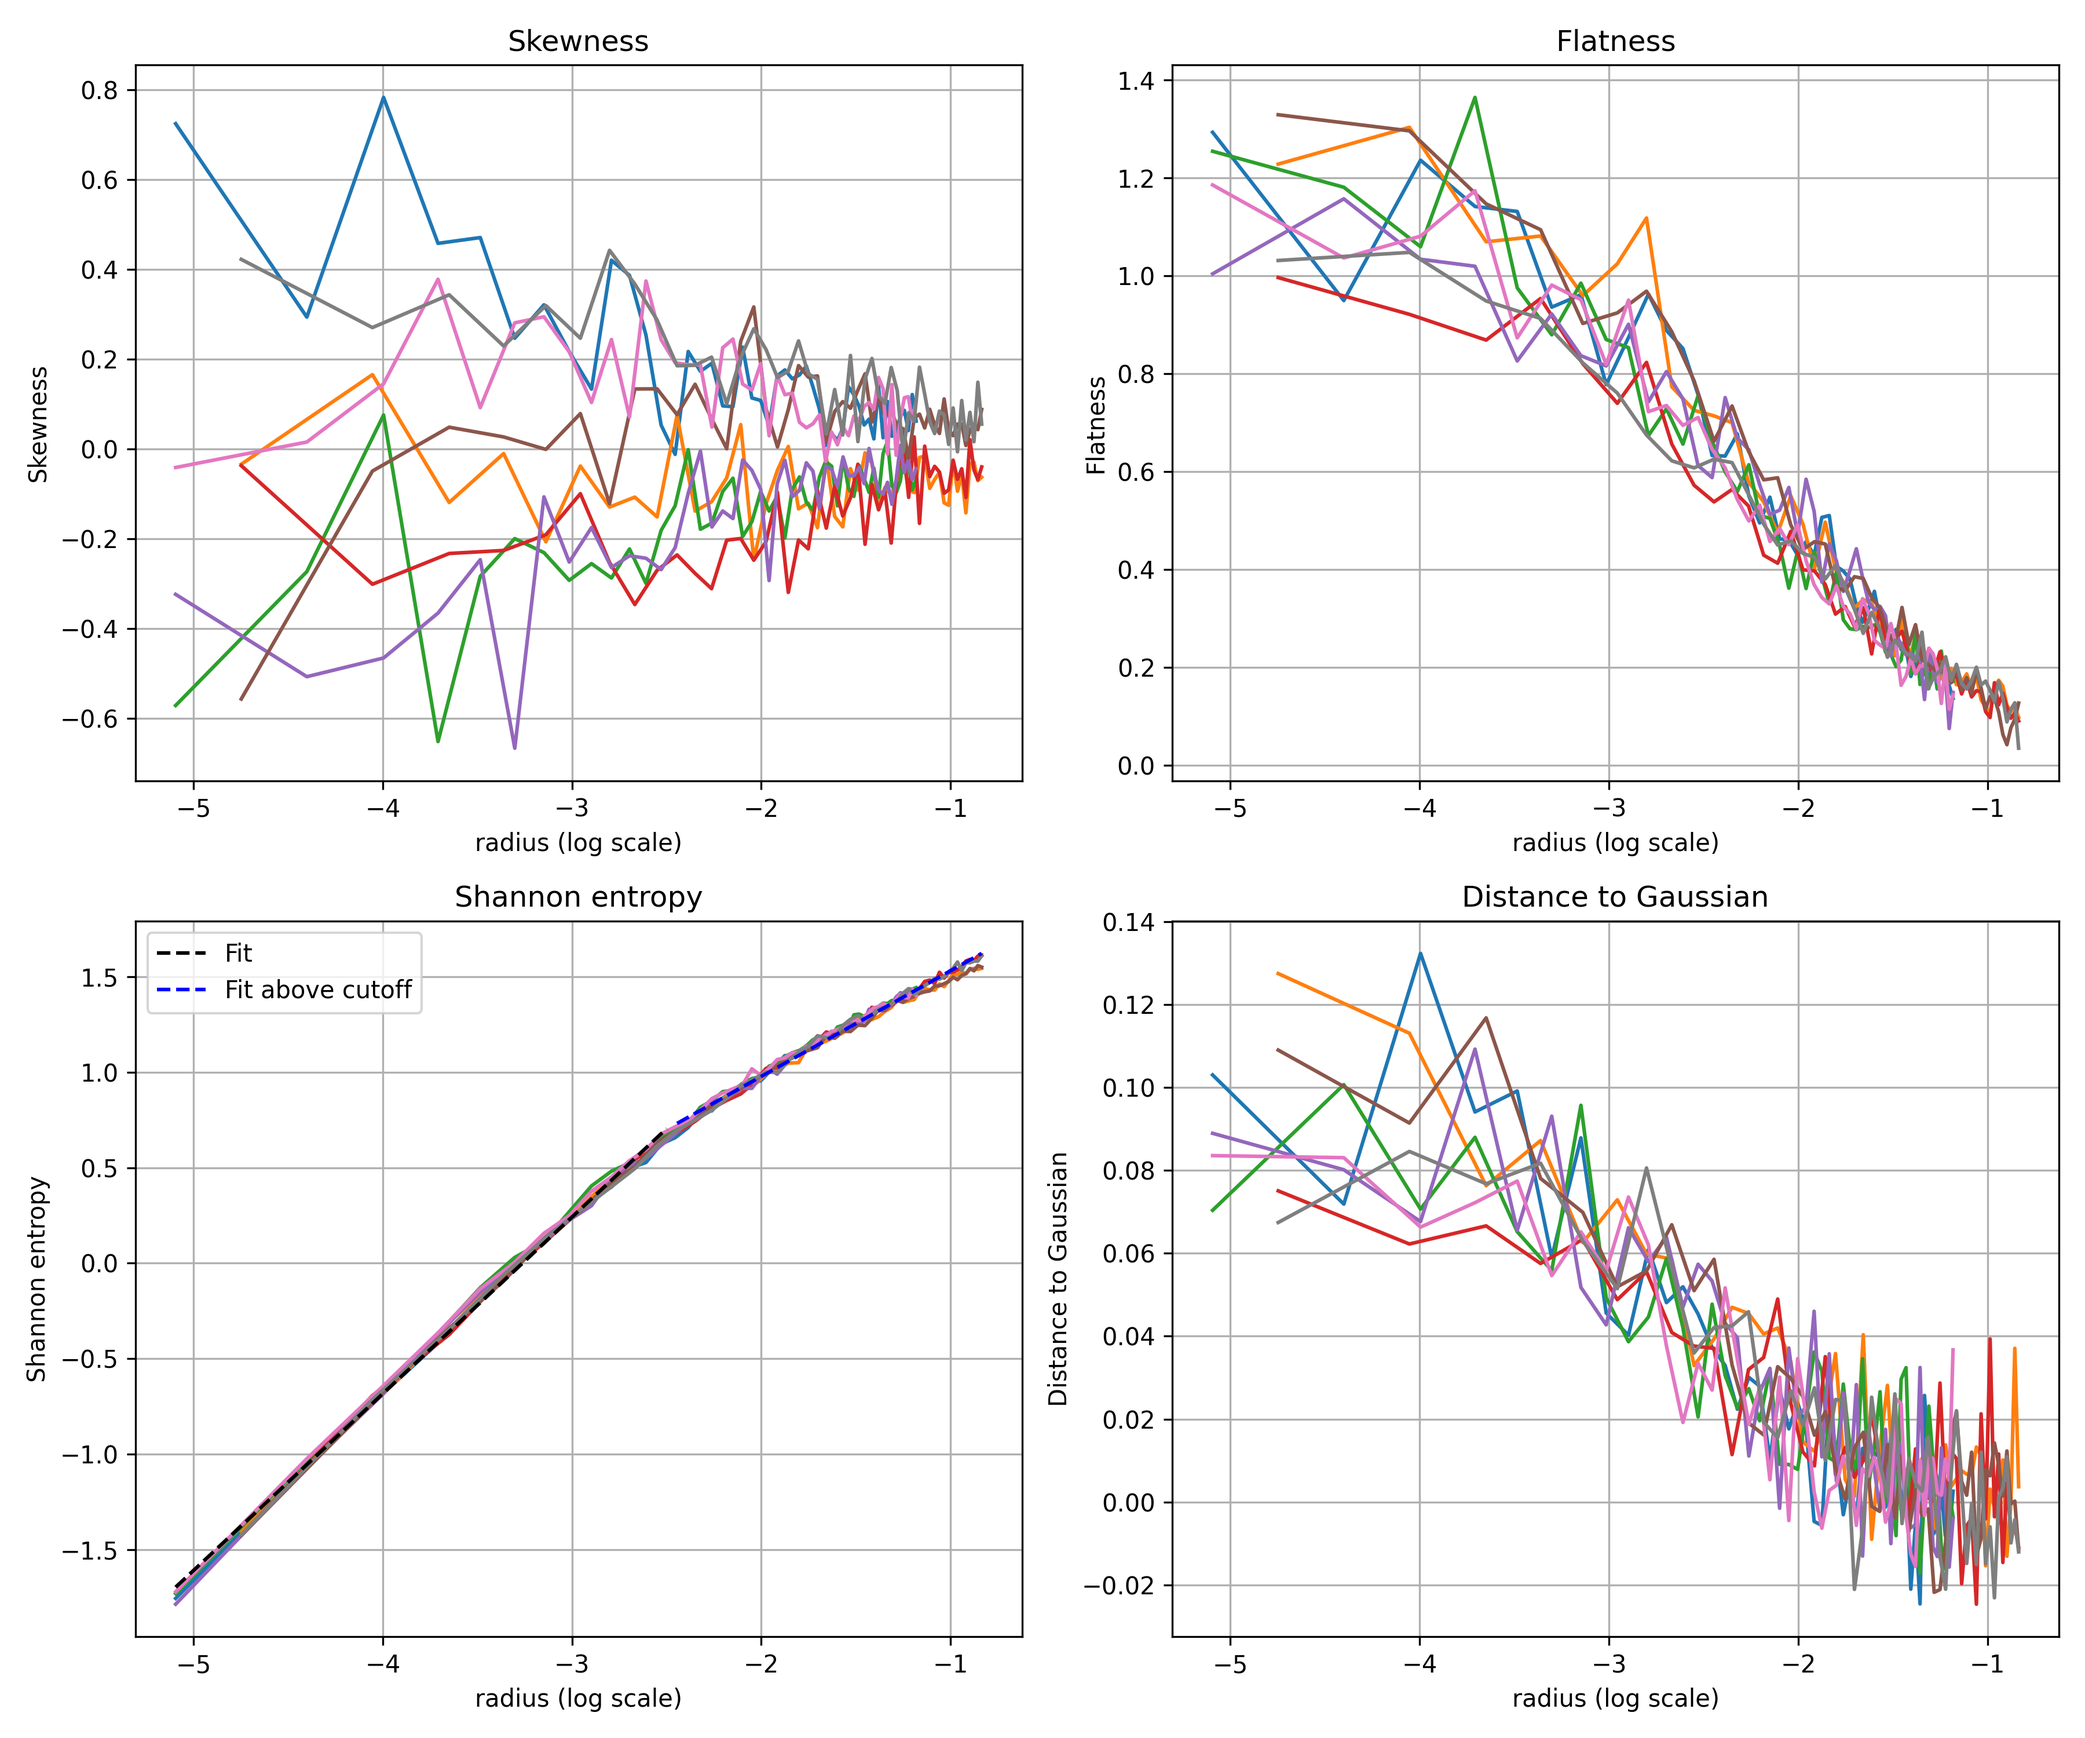
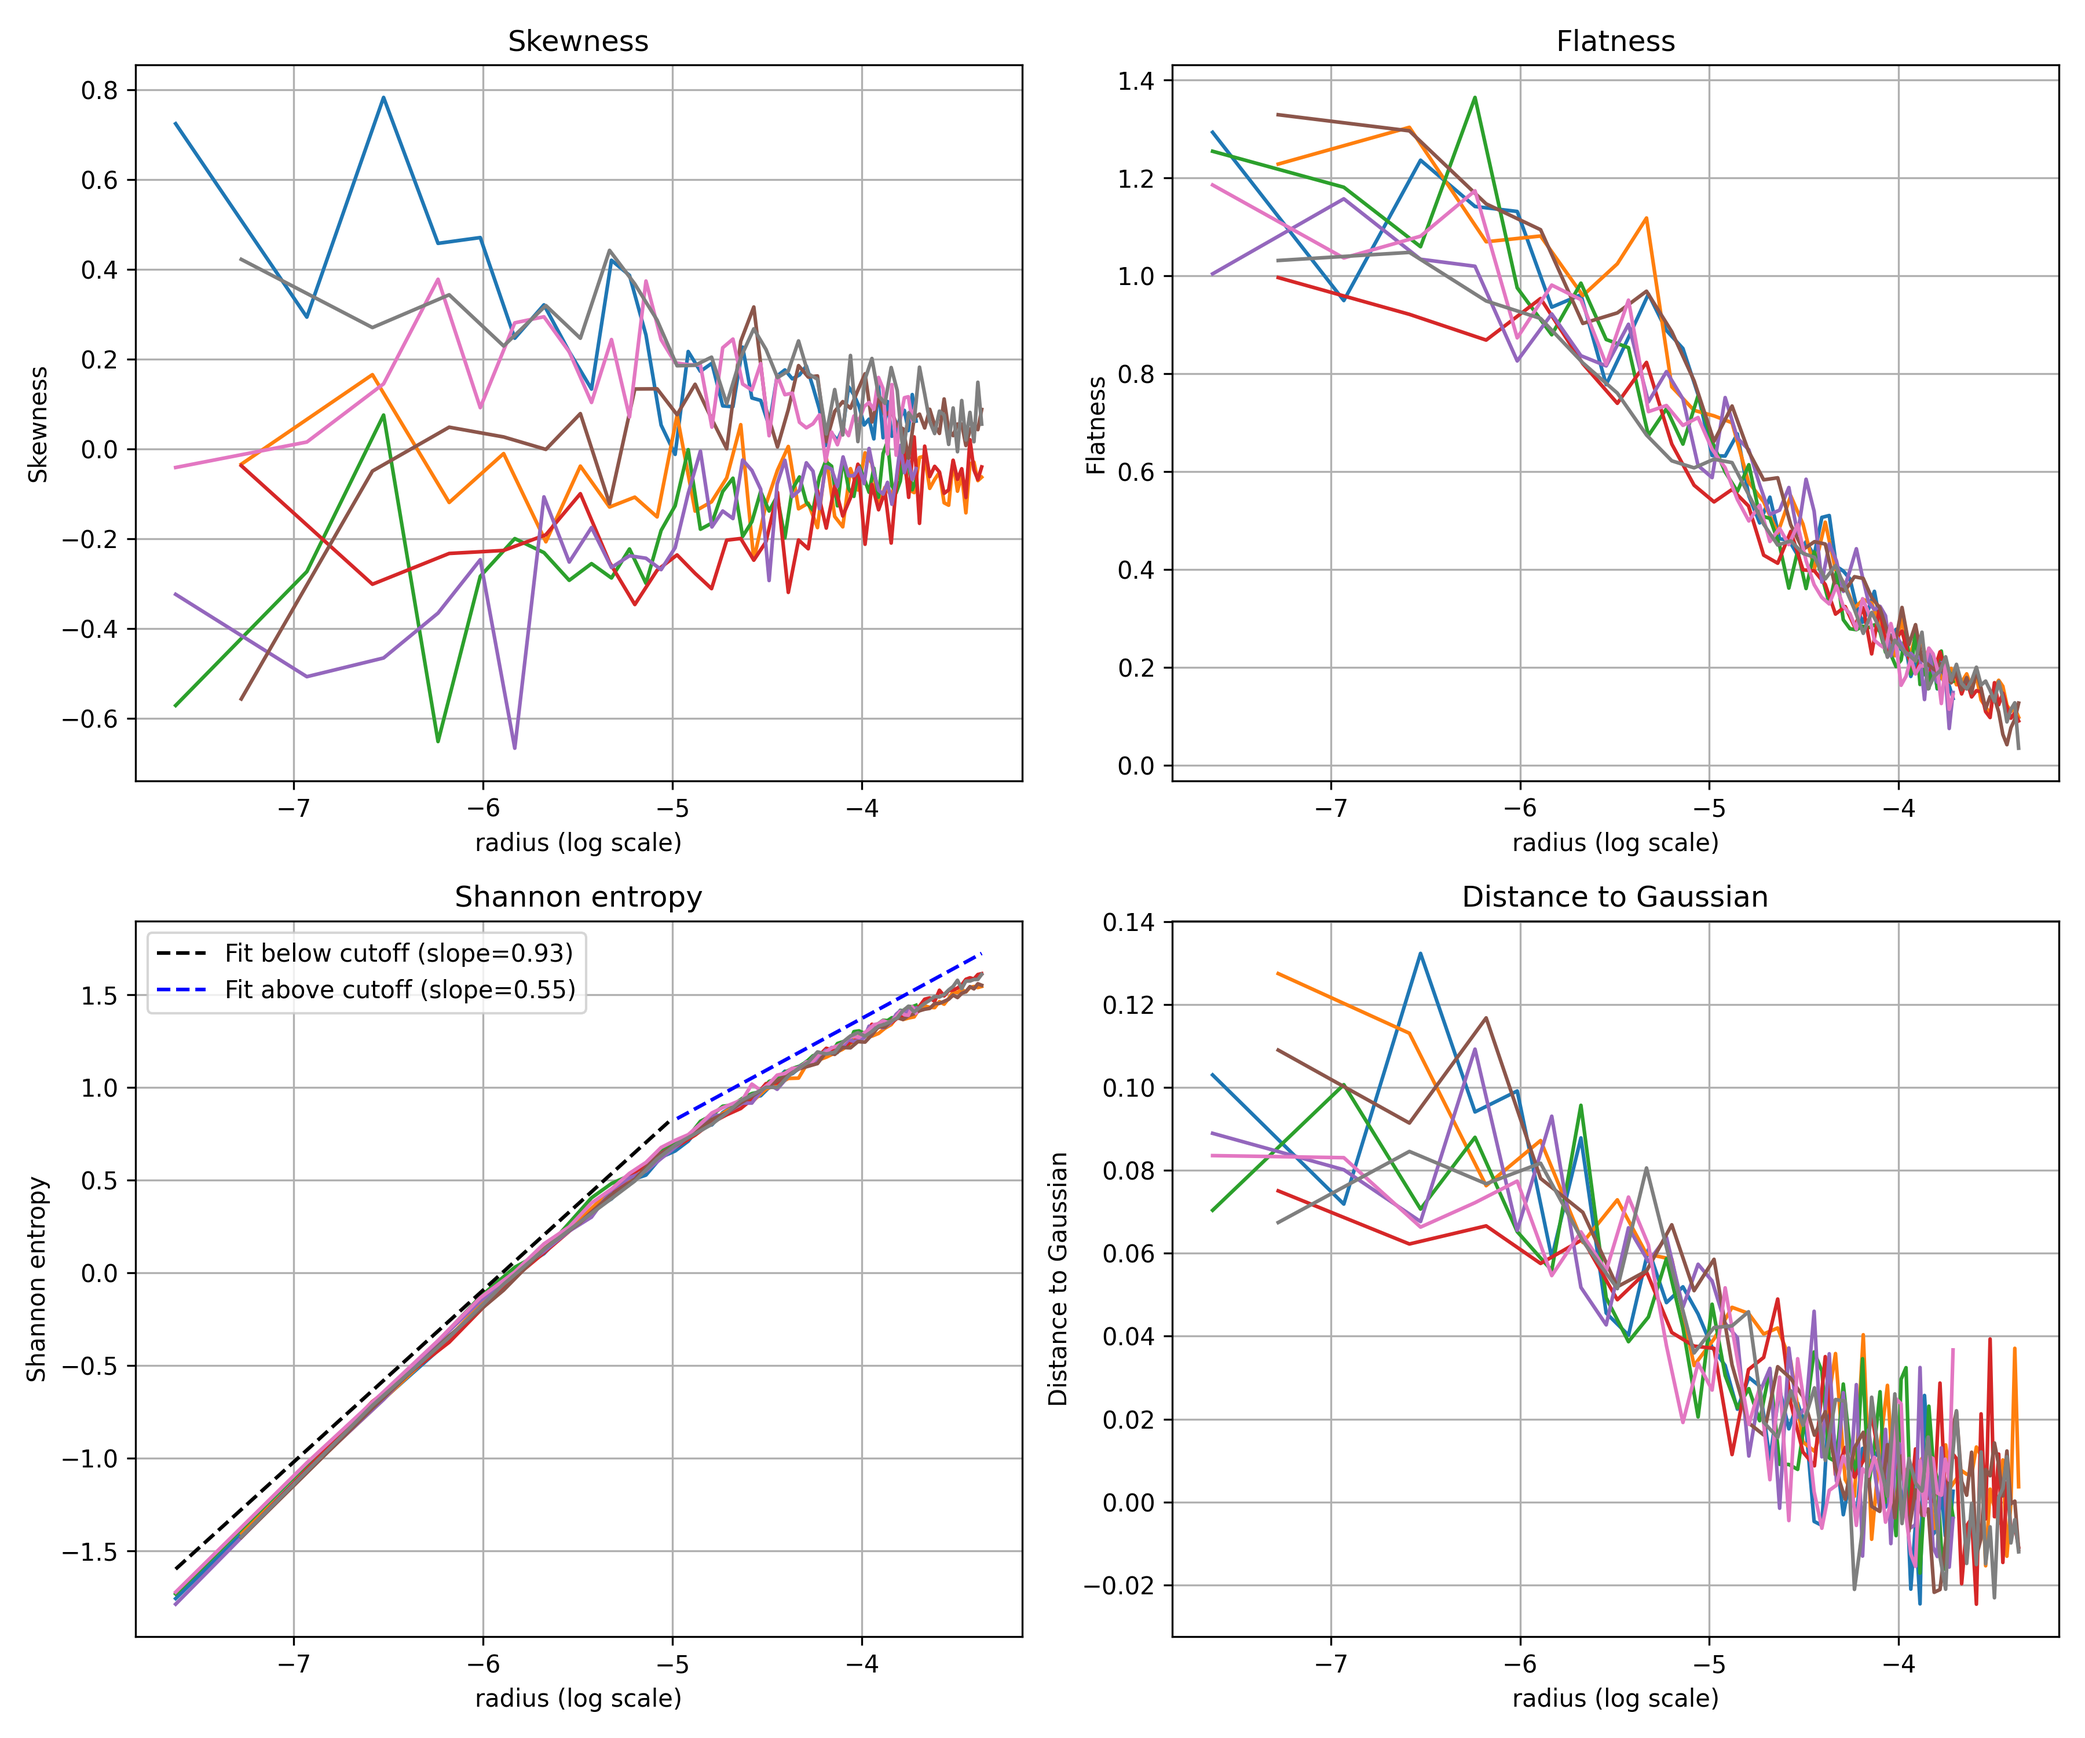
Added different cutoff radius for multiple regressions

diff --git a/Plotting.py b/Plotting.py
@@ -1,11 +1,4 @@
-"""
-This python ...
-
-authors: C. Granero-Belinchon (IMT- Atlantique).
-
-date: 09/2021
-"""
-#%% Import Libraries
+# %%
 
 import numpy as np
 import sys
@@ -23,11 +16,15 @@ from skimage.draw import line
 import matplotlib.pyplot as plt
 
 import infomeasure as im # to compute information measures
-
-#%%
 from dirs import dir, save_dir
 
-sim_n = '03'
+# Parameters definition
+Nanalyse=2**10 # number of increments to analyse (512 / 1024 is a good compromise between statistical convergence and computation time)
+scaleth= 50 # maximum scale to analyse
+Nreal = 5 # number of realizations to average the information measures over
+n_angles = 8
+
+sim_n = '04'
 path= dir + 'sim_' + sim_n + '/' + 'vars.nc'
 save_dir = save_dir + 'sim_' + sim_n + '/'
 # Ensure output directory exists to avoid "No such file or directory" when saving
@@ -59,11 +56,6 @@ WW=(WW)/sigma
 
 N=len(WW)
 
-# Parameters definition
-Nanalyse=2**10 # number of increments to analyse (512 / 1024 is a good compromise between statistical convergence and computation time)
-scaleth= 50 # maximum scale to analyse
-Nreal = 5 # number of realizations to average the information measures over
-
 scale_dir = f'scales_1-{scaleth}/'
 # Ensure scale-specific output directory exists
 if not os.path.exists(save_dir + scale_dir):
@@ -87,65 +79,6 @@ entropy = np.zeros((len(scales), len(scales), Nreal))
 # Distance to Gaussian distribution (Kullback-Leiber divergence)
 dist_gauss = np.zeros((len(scales), len(scales), Nreal))
 
-
-#%%
-
-# Estimation of all information measures
-for isx in range(len(scales)): #x dimension
-    for isy in range(len(scales)): # y dimension
-
-        scalex=scales[isx]
-        scaley=scales[isy]
-        
-        if scalex!=0 or scaley !=0:
-            # Generation of increments
-            incrs = Incrs_anisotropic_generator2d(WW, scalex, scaley)
-
-            # flatten incrs to get a vector
-            incrs = incrs.flatten()
-
-            incrs = np.random.permutation(incrs)[0:int(len(incrs)/Nanalyse)*Nanalyse].reshape(-1,Nanalyse)
-
-            # create Gaussian realizations matching each increment-realization's mean and std
-            means = np.mean(incrs, axis=1)
-            stds = np.std(incrs, axis=1, ddof=0)
-            stds[stds == 0] = 1e-12
-            gauss = np.random.normal(loc=means[:, None], scale=stds[:, None], size=incrs.shape)
-
-            for ir in range(Nreal):
-                S2[isx,isy,ir] = np.mean(incrs[ir]**2)
-                skewness[isx,isy,ir] = skew(incrs[ir], bias=True)
-                flatness[isx,isy,ir] = kurtosis(incrs[ir], bias=True)
-                entropy[isx,isy,ir] = im.entropy(incrs[ir], approach="kl", k = 5)
-                dist_gauss[isx,isy,ir] = im.kullback_leiber_divergence(incrs[ir], gauss[ir], approach="kl", k = 5)
-    print(isx,"/",len(scales)-1, 'done')
-
-# Averaging over realizations
-S2 = np.mean(S2, axis=2)
-skewness = np.mean(skewness, axis=2)
-flatness = np.mean(flatness, axis=2)
-entropy = np.mean(entropy, axis=2)
-dist_gauss = np.mean(dist_gauss, axis=2)
-
-
-# %%
-save_values = False
-
-# Saving the information measures
-if save_values:
-    np.savez(save_dir + scale_dir + f'Vorticity_Information_Measures_Nanalyse{Nanalyse}_scales1-{scaleth}.npz',
-            S2=S2,
-            skewness=skewness,
-            flatness=flatness,
-            entropy=entropy,
-            dist_gauss=dist_gauss,
-            scalesx=scales,
-            scalesy=scales,
-            )
-
-# %%
-
-# Loading the information measures from a file
 load_values = True
 scales = np.arange(-scaleth,scaleth+1,1)
 scale_dir = f'scales_1-{scaleth}/'
@@ -159,10 +92,6 @@ if load_values:
     dist_gauss = data['dist_gauss']
     scalesx = data['scalesx']
     scalesy = data['scalesy']
-
-# %%
-
-n_angles = 8
 
 meshgrid = np.meshgrid(scales,scales)
 
@@ -203,7 +132,6 @@ for k in range(n_angles):
 radius_angle = [np.log(elt) for elt in radius_angle]
 flatness_angle = [np.log((elt+3)/3) for elt in flatness_angle]
 
-# %%
 # Visualization of the information measures
 save_graphs = True
 
@@ -285,7 +213,8 @@ for i, ax in enumerate(axes):
     entropy_slopes = np.zeros(n_angles)
     c_intercept = np.zeros(n_angles)
 
-    cutoff_radius = -2.5
+    cutoff_radius = -5
+    cutoff_radius_2 = -3
 
     for k in range(n_angles):
         r = radius_angle[k]
@@ -311,19 +240,19 @@ for i, ax in enumerate(axes):
         r_fit = np.linspace(min(radius_angle[0]), cutoff_radius, 100)
         
         m_slope_m = np.mean(entropy_slopes) if i == 2 else 0
-        c_intercept_m = np.mean(c_intercept)
+        c_intercept_m = np.mean(c_intercept) + 0.1
 
-        ax.plot(r_fit, m_slope_m * r_fit + c_intercept_m, linestyle='--', color='black', label='Fit')
+        ax.plot(r_fit, m_slope_m * r_fit + c_intercept_m, linestyle='--', color='black', label=f'Fit below cutoff (slope={m_slope_m:.2f})')
         ax.legend()
 
         # Above cutoff radius, plot dashed line
-        if sim_n == '03':
+        if sim_n == '03' or sim_n == '04':
             for k in range(n_angles):
                 r = radius_angle[k]
                 d = data_lists[i][k]
 
                 # applying cutoff radius
-                mask = r >= cutoff_radius
+                mask = np.all([r > cutoff_radius, r < cutoff_radius_2], axis=0)
                 r_fit = r[mask]
                 d_fit = d[mask]
 
@@ -336,9 +265,9 @@ for i, ax in enumerate(axes):
             r_above = np.linspace(cutoff_radius, max(radius_angle[0]), 100)
 
             m_slope = np.mean(entropy_slopes) if i == 2 else 0
-            c_intercept = np.mean(c_intercept)
+            c_intercept = np.mean(c_intercept) + 0.1
 
-            ax.plot(r_fit, m_slope * r_fit + c_intercept, linestyle='--', color='blue', label='Fit above cutoff')
+            ax.plot(r_fit, m_slope * r_fit + c_intercept, linestyle='--', color='blue', label=f'Fit above cutoff (slope={m_slope:.2f})')
             ax.legend()
 
     
@@ -356,5 +285,4 @@ if save_graphs:
     fig2.savefig(save_dir + scale_dir + f'Vorticity_Results_Nanalyse1024_scales1-{scaleth}.png', dpi=300)
     fig3.savefig(save_dir + scale_dir + f'Vorticity_Histograms_Nanalyse1024_scales1-{scaleth}.png', dpi=300)
     fig4.savefig(save_dir + scale_dir + f'Vorticity_Angular_Profiles_Nanalyse{Nanalyse}_scales1-{scaleth}.png', dpi=300)
-
 # %%
